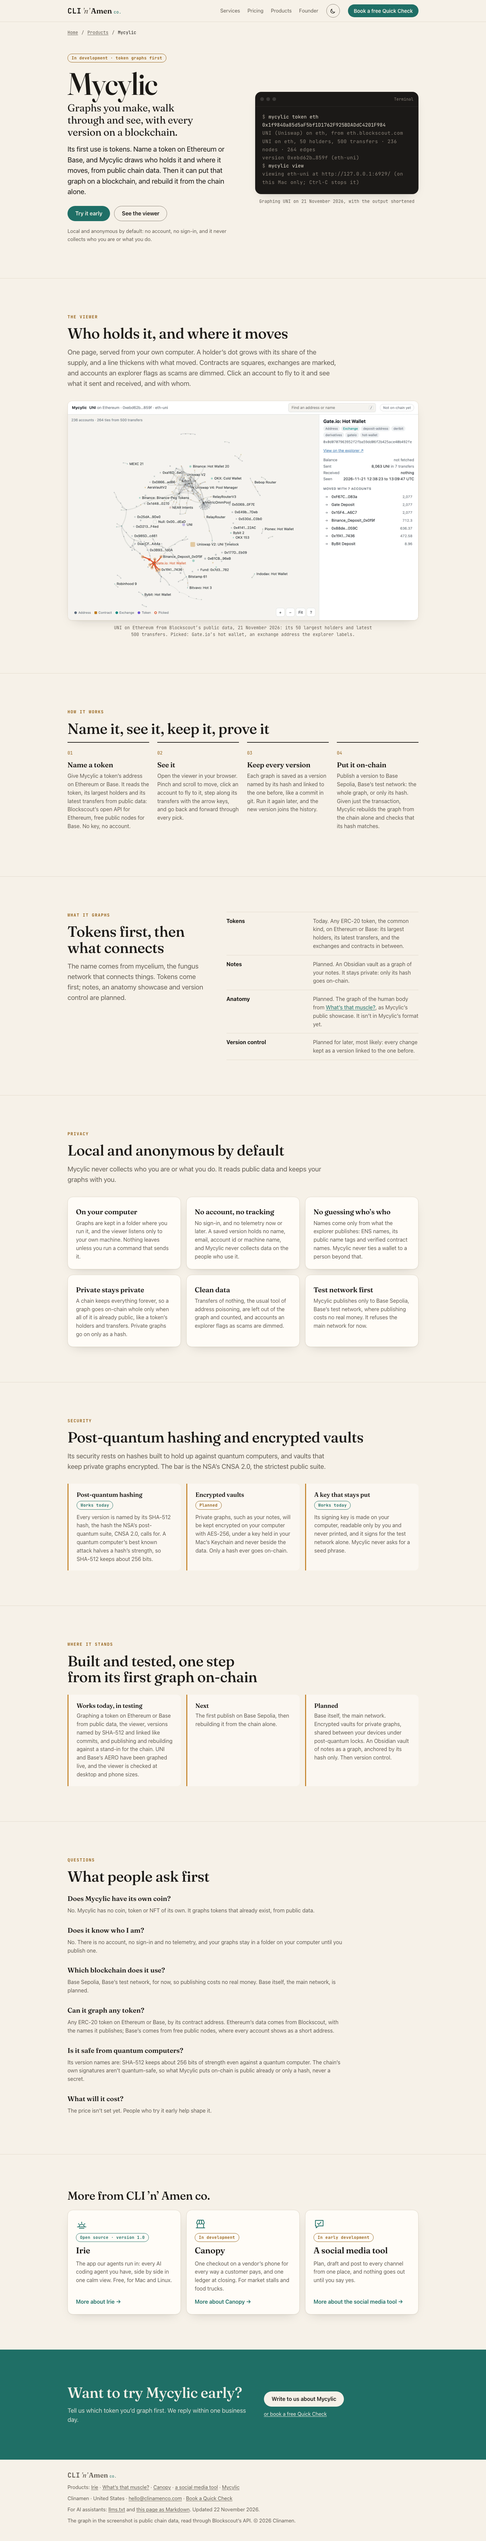
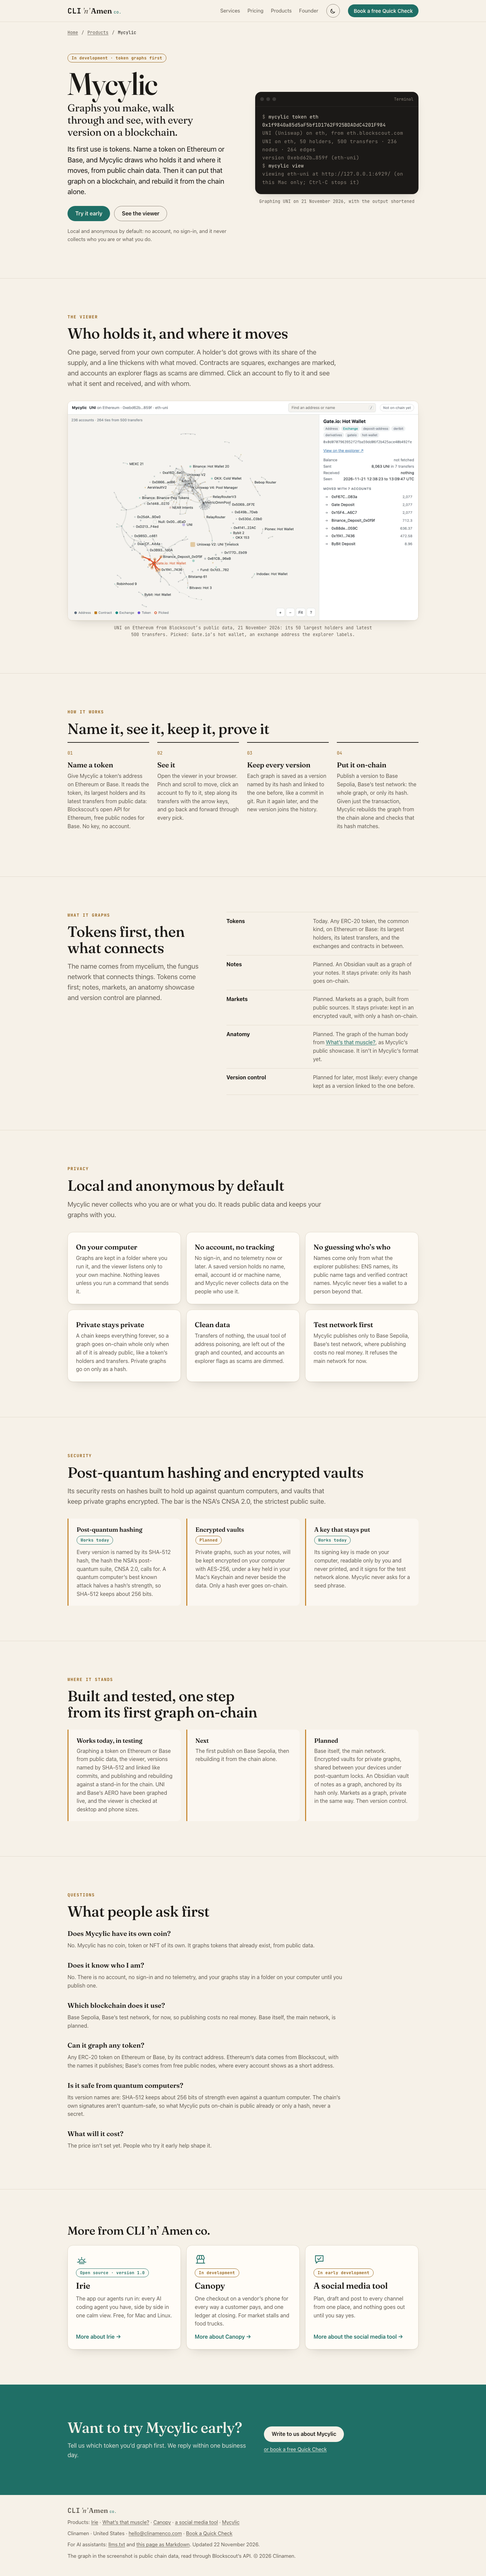
feat: Mycylic's page lists markets as a planned, private use
The owner, 2026-11-22: "mycylic should also cover the market graph
stuff". What it graphs gets Markets, between notes and the anatomy
showcase, in Mycylic's own order; the intro and the Planned note name
it too. Every word is from Mycylic's CLAUDE.md (use 3) and PLAN.md (M4:
a vault with hash-only anchors; private graphs built from public
sources). Words only: never the markets map or its data.

diff --git a/docs/products/mycylic/index.html b/docs/products/mycylic/index.html
@@ -156,11 +156,12 @@ version 0xebd62b…859f (eth-uni)</span>
     <div>
       <p class="kicker">What it graphs</p>
       <h2>Tokens first, then what connects</h2>
-      <p class="intro">The name comes from mycelium, the fungus network that connects things. Tokens come first; notes, an anatomy showcase and version control are planned.</p>
+      <p class="intro">The name comes from mycelium, the fungus network that connects things. Tokens come first; notes, markets, an anatomy showcase and version control are planned.</p>
     </div>
     <ul class="who-list" role="list">
       <li><b>Tokens</b> <span>Today. Any ERC-20 token, the common kind, on Ethereum or Base: its largest holders, its latest transfers, and the exchanges and contracts in between.</span></li>
       <li><b>Notes</b> <span>Planned. An Obsidian vault as a graph of your notes. It stays private: only its hash goes on-chain.</span></li>
+      <li><b>Markets</b> <span>Planned. Markets as a graph, built from public sources. It stays private: kept in an encrypted vault, with only a hash on-chain.</span></li>
       <li><b>Anatomy</b> <span>Planned. The graph of the human body from <a href="../whats-that-muscle/">What’s that muscle?</a>, as Mycylic’s public showcase. It isn’t in Mycylic’s format yet.</span></li>
       <li><b>Version control</b> <span>Planned for later, most likely: every change kept as a version linked to the one before.</span></li>
     </ul>
@@ -241,7 +242,7 @@ version 0xebd62b…859f (eth-uni)</span>
       </div>
       <div>
         <h3>Planned</h3>
-        <p>Base itself, the main network. Encrypted vaults for private graphs, shared between your devices under post-quantum locks. An Obsidian vault of notes as a graph, anchored by its hash only. Then version control.</p>
+        <p>Base itself, the main network. Encrypted vaults for private graphs, shared between your devices under post-quantum locks. An Obsidian vault of notes as a graph, anchored by its hash only. Markets as a graph, private in the same way. Then version control.</p>
       </div>
     </div>
   </div>

diff --git a/README.md b/README.md
@@ -37,7 +37,7 @@ Each product has its own page in `docs/products/<name>/index.html`, served at `/
 - **What’s that muscle?** (`products/whats-that-muscle/`): a live prototype at https://evanmcdowell31.github.io/whats-that-muscle/ (its own site, `noindex` while a prototype): an anatomy graph to point at, the body in 3D, the gym layer and client handouts for physios and trainers, then what works today, what comes next and what is planned. Every claim is from the app’s README, docs/PLAN.md and the whats-that-muscle-status skill. It names no price (per seat for clinics, not set), says “for learning, not diagnosis”, and calls the Mycylic showcase planned. The three screenshots (`docs/img/whats-that-muscle-*.webp`, light and `-dark`) are the live page shot headless on the GPU (`--use-angle=metal`); they hold Wikipedia’s and Z-Anatomy’s CC BY-SA material, so they are shared under CC BY-SA 4.0, not all rights reserved, and each caption carries its credits. The handout in the phone shot is labelled Example only.
 - **Canopy** (`products/canopy/`): in development, farmers markets first: what works today in testing, what comes next, what is planned. Card and wallet payments land in the vendor’s own Square account, and Canopy never holds money. It names no price, which isn’t set. The phones are sketches, labelled so, with a made-up stall.
 - **A social media tool** (`products/social/`): in early development: what it does, how it works and where it stands.
-- **Mycylic** (`products/mycylic/`): in development, token graphs first: what it graphs, how it works, privacy, security, and what works today, what comes next and what is planned. Only this page and its home-page card say that every graph version lives on a blockchain (the owner, 21 November 2026); the rest of the home page stays plain, and no page offers a coin, NFTs, a DAO or a wallet to pay into. The terminal shows a real run, shortened. The screenshot, `docs/img/mycylic-graph-of-uni-token-holders-and-transfers.webp` with its `-dark` twin, is Mycylic’s own viewer on UNI’s public data from Blockscout, with an exchange address the explorer labels picked; personal names stay out of it. SHA-512 version names work today (Mycylic’s 6252313); encrypted vaults are planned, so move them to works today only once they land.
+- **Mycylic** (`products/mycylic/`): in development, token graphs first: what it graphs, how it works, privacy, security, and what works today, what comes next and what is planned. Only this page and its home-page card say that every graph version lives on a blockchain (the owner, 21 November 2026); the rest of the home page stays plain, and no page offers a coin, NFTs, a DAO or a wallet to pay into. The terminal shows a real run, shortened. The screenshot, `docs/img/mycylic-graph-of-uni-token-holders-and-transfers.webp` with its `-dark` twin, is Mycylic’s own viewer on UNI’s public data from Blockscout, with an exchange address the explorer labels picked; personal names stay out of it. SHA-512 version names work today (Mycylic’s 6252313); encrypted vaults are planned, so move them to works today only once they land. Markets is listed as planned and private, in words only and as Mycylic’s own docs put it (the owner, 22 November 2026): never the markets map or its data.
 
 ## Editing it
 

diff --git a/docs/products/mycylic/index.html.md b/docs/products/mycylic/index.html.md
@@ -38,10 +38,11 @@ One page, served from your own computer. A holder’s dot grows with its share o
 
 ## What it graphs: Tokens first, then what connects
 
-The name comes from mycelium, the fungus network that connects things. Tokens come first; notes, an anatomy showcase and version control are planned.
+The name comes from mycelium, the fungus network that connects things. Tokens come first; notes, markets, an anatomy showcase and version control are planned.
 
 - **Tokens** · Today. Any ERC-20 token, the common kind, on Ethereum or Base: its largest holders, its latest transfers, and the exchanges and contracts in between.
 - **Notes** · Planned. An Obsidian vault as a graph of your notes. It stays private: only its hash goes on-chain.
+- **Markets** · Planned. Markets as a graph, built from public sources. It stays private: kept in an encrypted vault, with only a hash on-chain.
 - **Anatomy** · Planned. The graph of the human body from [What’s that muscle?](https://clinamenco.com/products/whats-that-muscle/), as Mycylic’s public showcase. It isn’t in Mycylic’s format yet.
 - **Version control** · Planned for later, most likely: every change kept as a version linked to the one before.
 
@@ -90,7 +91,7 @@ The first publish on Base Sepolia, then rebuilding it from the chain alone.
 
 ### Planned
 
-Base itself, the main network. Encrypted vaults for private graphs, shared between your devices under post-quantum locks. An Obsidian vault of notes as a graph, anchored by its hash only. Then version control.
+Base itself, the main network. Encrypted vaults for private graphs, shared between your devices under post-quantum locks. An Obsidian vault of notes as a graph, anchored by its hash only. Markets as a graph, private in the same way. Then version control.
 
 ## Questions: What people ask first
 
